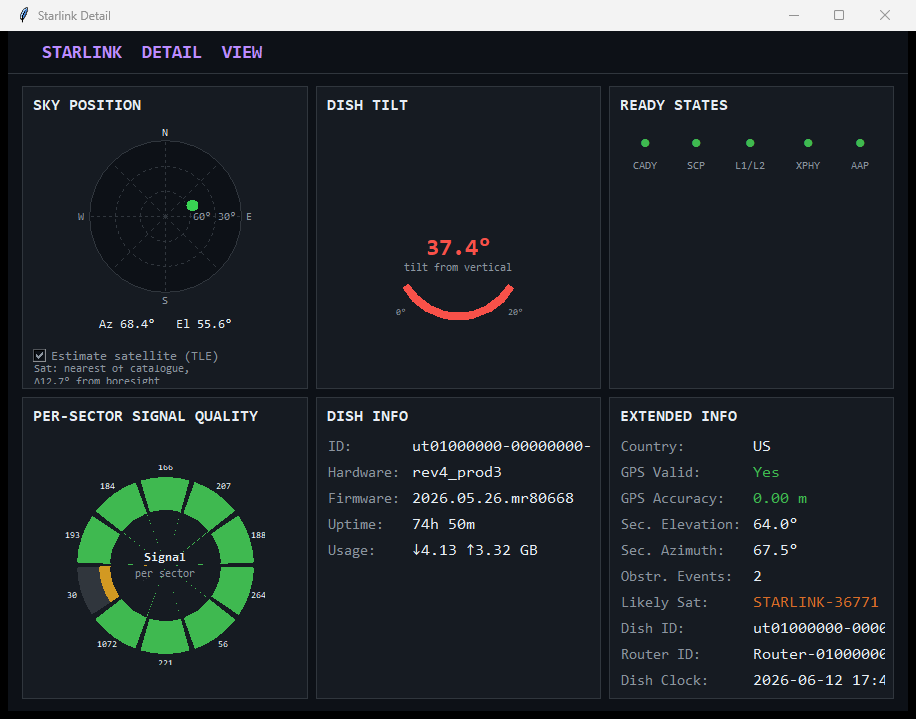
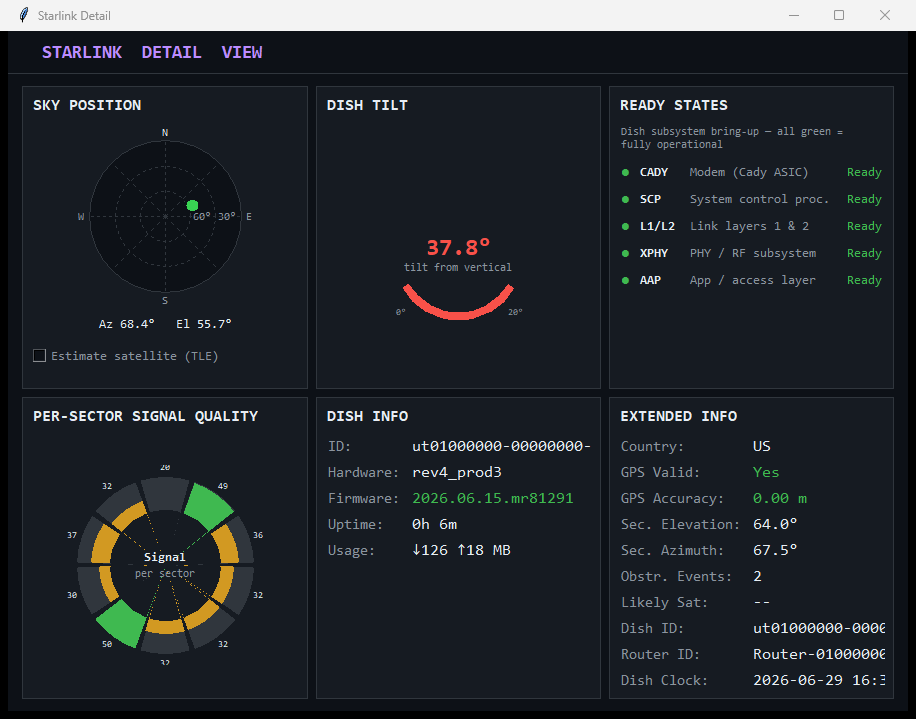
Refresh detail screenshot; bump KNOWN_FIRMWARE to 2026.06.15.mr81291
The dish updated to firmware 2026.06.15.mr81291. Wire-decoding confirmed all
field mappings are unchanged (SNR, throughput, latency, pointing, GPS, eth,
obstruction all sane and cross-consistent), so the dashboard reads correctly.

- Bump KNOWN_FIRMWARE so the Dish Info panel shows the firmware green (no warning).
- Refresh docs/screenshot-detail.png: now shows the descriptive Ready States
  panel and the current firmware.
- Note the re-verification in the README build notes.

diff --git a/starlink_dashboard.py b/starlink_dashboard.py
@@ -24,7 +24,8 @@ DISH_HOST = "192.168.100.1:9200"
 # Firmware the protobuf field numbers were reverse-engineered/verified against.
 # On a mismatch the dashboard keeps running but flags it in the Dish Info panel,
 # since a different firmware could shift field numbers and skew readings.
-KNOWN_FIRMWARE = "2026.05.26.mr80668"
+# Field mappings confirmed unchanged on 2026.06.15.mr81291 (re-verified by wire-decode).
+KNOWN_FIRMWARE = "2026.06.15.mr81291"
 
 POLL_INTERVAL = 2    # seconds between live polls
 HISTORY_LEN  = 600   # sparkline sample buffer; 600 pts × 2 s = 20 min

diff --git a/README.md b/README.md
@@ -124,8 +124,8 @@ The selected GPS port and any manually-entered dish coordinates are saved to
   with `grpcio-tools` into a temp directory — so updating a field number is a
   one-line edit, no build step.
 - **Field numbers** were reverse-engineered by raw wire-decoding against firmware
-  **2026.05.26**; most telemetry fields sit ≈ `+1000` from the legacy
-  community-documented spec.
+  **2026.05.26** and confirmed unchanged on **2026.06.15**; most telemetry fields
+  sit ≈ `+1000` from the legacy community-documented spec.
 - **Verified field-mapping corrections** (from wire captures on this firmware):
   - The history array at field `1010` is **not** SNR (it ranges ~16–89, mean ~32),
     so the SNR sparkline is built from live polls only rather than seeded with it.